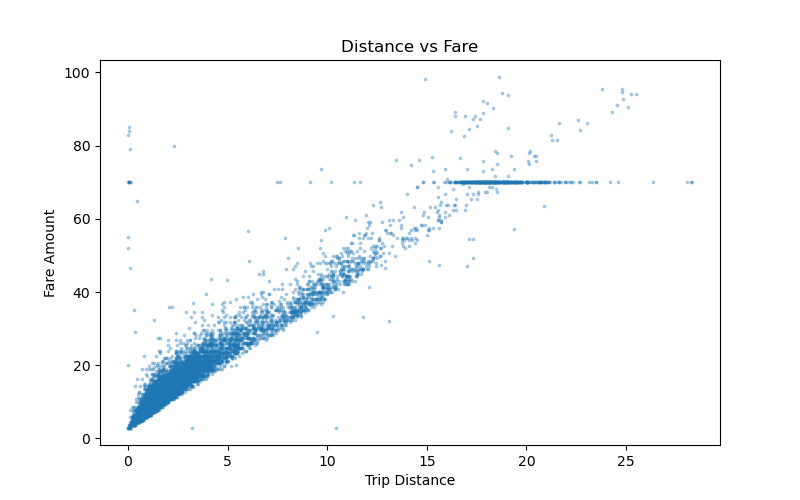
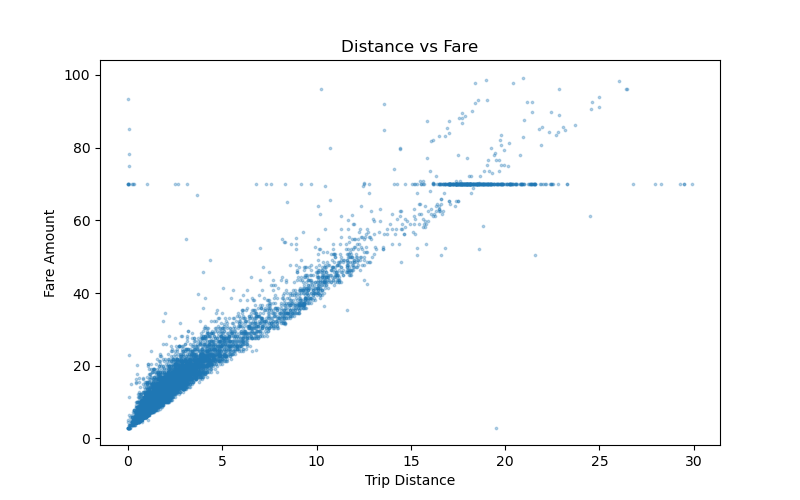
M2完成

diff --git a/mian.py b/mian.py
@@ -149,3 +149,30 @@ plt.title('Passenger Count vs Average Fare')
 plt.savefig('passenger_fare.png')
 plt.show()
 plt.close()
+#自选：不同时间段平均速度变化
+#研究一天中，什么时候车速最快/最慢
+df['speed'] = df['trip_distance'] / (
+    df['duration'] / 60
+)
+#去除异常速度
+df = df[
+    (df['speed'] > 0) &
+    (df['speed'] < 100)
+]
+speed_by_hour = df.groupby('hour')[
+    'speed'
+].mean()#统计
+plt.figure(figsize=(10,5))
+
+plt.plot(
+    speed_by_hour.index,
+    speed_by_hour.values
+)
+
+plt.xlabel('Hour')
+plt.ylabel('Average Speed')
+plt.title('Average Speed by Hour')
+
+plt.savefig('speed_hour.png')
+plt.show()
+plt.close()